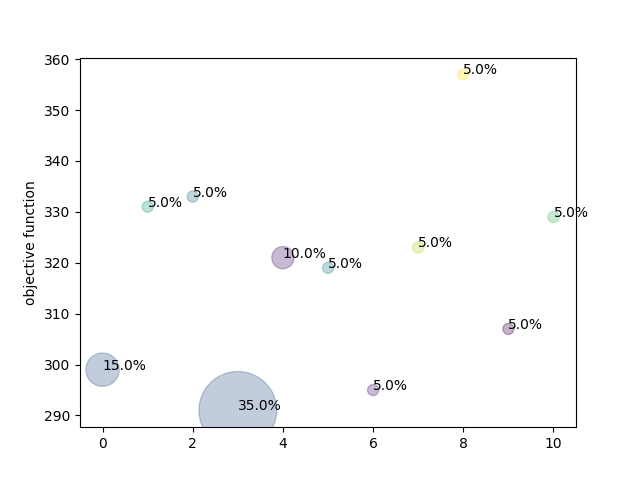
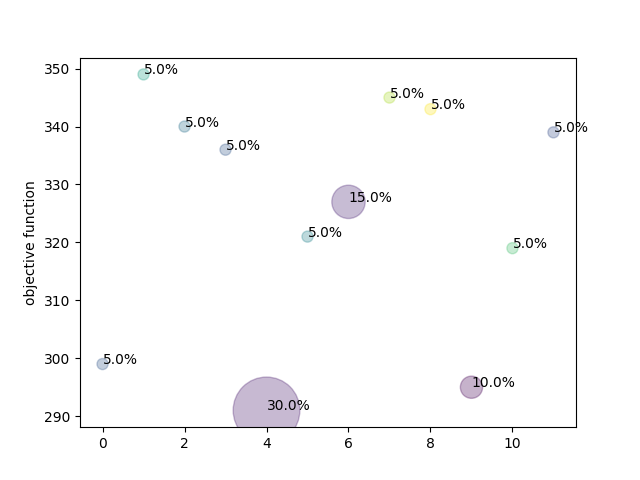
Changed readme.md

diff --git a/tabu-search-algorithm/main.py b/tabu-search-algorithm/main.py
@@ -8,12 +8,13 @@ DEBUG = False
 def run_algorithm():
     tabu_search_algorithm = TabuSearchAlgorithm(
         weights=weights,
-        tabu_queue_size=5,
-        tabu_memory_strategy=MemoryStrategy.SAVE_IDS,
-        intensification_threshold_value=10,  # number of times, four top cities
-        diversification_threshold_value=15,
-        diversification_pick_number=5,
-        max_iterations=200,
+        tabu_queue_size=5,  # the short memory queue size
+        tabu_memory_strategy=MemoryStrategy.SAVE_IDS,  # the short memory strategy
+        intensification_threshold_value=10, # the value that should be reached to run intensification (adding it to
+        # frozen list)
+        diversification_threshold_value=15,  # the value that should be reached to run diversification
+        diversification_pick_number=5,  # the diversification list size
+        max_iterations=300,
     )
     algorithm_result, plot_data = tabu_search_algorithm.objective_function()
     return tabu_search_algorithm, algorithm_result, plot_data

diff --git a/tabu-search-algorithm/README.md b/tabu-search-algorithm/README.md
@@ -1,3 +1,66 @@
 # Tabu search algorithm
 
 The implementation of the Tabu search algorithm for solving the Traveler Salesman Problem using different type of memories: short, middle and long ones.
+
+### Algorithm running:
+
+We runned algorithm for such a matrix `p01.15.291.tsp`:
+
+```
+[[ 0. 29. 82. 46. 68. 52. 72. 42. 51. 55. 29. 74. 23. 72. 46.]
+ [29.  0. 55. 46. 42. 43. 43. 23. 23. 31. 41. 51. 11. 52. 21.]
+ [82. 55.  0. 68. 46. 55. 23. 43. 41. 29. 79. 21. 64. 31. 51.]
+ [46. 46. 68.  0. 82. 15. 72. 31. 62. 42. 21. 51. 51. 43. 64.]
+ [68. 42. 46. 82.  0. 74. 23. 52. 21. 46. 82. 58. 46. 65. 23.]
+ [52. 43. 55. 15. 74.  0. 61. 23. 55. 31. 33. 37. 51. 29. 59.]
+ [72. 43. 23. 72. 23. 61.  0. 42. 23. 31. 77. 37. 51. 46. 33.]
+ [42. 23. 43. 31. 52. 23. 42.  0. 33. 15. 37. 33. 33. 31. 37.]
+ [51. 23. 41. 62. 21. 55. 23. 33.  0. 29. 62. 46. 29. 51. 11.]
+ [55. 31. 29. 42. 46. 31. 31. 15. 29.  0. 51. 21. 41. 23. 37.]
+ [29. 41. 79. 21. 82. 33. 77. 37. 62. 51.  0. 65. 42. 59. 61.]
+ [74. 51. 21. 51. 58. 37. 37. 33. 46. 21. 65.  0. 61. 11. 55.]
+ [23. 11. 64. 51. 46. 51. 51. 33. 29. 41. 42. 61.  0. 62. 23.]
+ [72. 52. 31. 43. 65. 29. 46. 31. 51. 23. 59. 11. 62.  0. 59.]
+ [46. 21. 51. 64. 23. 59. 33. 37. 11. 37. 61. 55. 23. 59.  0.]]
+ ```
+ 
+##### Runing properties
+```
+tabu_search_algorithm = TabuSearchAlgorithm(
+      tabu_queue_size=5,  # the short memory queue size
+      tabu_memory_strategy=MemoryStrategy.SAVE_IDS,  # the short memory strategy
+      intensification_threshold_value=10, # the matrix value that should be reached to run intensification 
+      diversification_threshold_value=15,  # the number of unsuccessive iterations that should be reached to run diversification
+      diversification_pick_number=5,  # the diversification list size
+      max_iterations=300,
+)
+```
+
+### Algorithm results
+
+```
+Best value:  291.0
+Best value frequency, %:  30.0
+Mean:  315.4
+Standard deviation:  22.33
+Relative standard deviation, %:  7.08
+```
+
+#### Run-curve:
+![run curve](https://github.com/scrubele/metaheuristic-algorithms/blob/main/tabu-search-algorithm/src/p01.15.291.tsp-run-history.png "Run curve")
+
+
+#### Intensification matrix:
+![Intensification](https://github.com/scrubele/metaheuristic-algorithms/blob/main/tabu-search-algorithm/src/p01.15.291.tsp-intensification.png "Intensification")
+
+
+#### Diversification matrix:
+![Diversification](https://github.com/scrubele/metaheuristic-algorithms/blob/main/tabu-search-algorithm/src/p01.15.291.tsp-diversification.png "Diversification")
+
+
+#### Multiple run curve:
+![Multiple run curve](https://github.com/scrubele/metaheuristic-algorithms/blob/main/tabu-search-algorithm/src/p01.15.291.tsp-multiple-run-history.png "Multiple Run curve")
+
+#### Multiple run scatter plot:
+![Multiple run scatter plot](https://github.com/scrubele/metaheuristic-algorithms/blob/main/tabu-search-algorithm/src/p01.15.291.tsp-multiple-run-scatter.png "Multiple run scatter plot")
+
